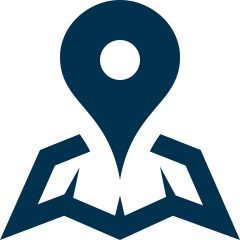
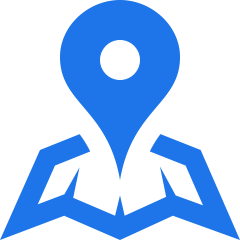
maps request added

diff --git a/src/pages/PlantSelect.tsx b/src/pages/PlantSelect.tsx
@@ -9,30 +9,27 @@ import colors from '../../styles/colors';
 import fonts from '../../styles/fonts';
 import { EnviromentButton } from '../components/EnviromentButton';
 import api from '../services/api';
+import mapsApi from '../services/mapsApi';
 import { PlantCardPrimary } from '../components/PlantCardPrimary';
 
-interface EnviromentProps {
+interface TypeProps {
     key: string;
     title: string;
 }
 
-interface PlantProps {
-    id: string;
+interface PlaceProps {
+    place_id: string;
     name: string;
     about: string;
-    water_tips: string;
-    photo: string;
-    environments: [string];
-    frequency: {
-        times: number;
-        repeat_every: string;
-    }
+    icon: string;
+    photo_reference: string;
+    
 }
 
 export function PlantSelect(){
-    const [enviroments, setEnviroments] = useState<EnviromentProps[]>([]);
-    const [plants, setPlants] = useState<PlantProps[]>([]);
-    const [filteredPlants, setFilteredPlants] = useState<PlantProps[]>([]);
+    const [enviroments, setEnviroments] = useState<TypeProps[]>([]);
+    const [plants, setPlants] = useState<PlaceProps[]>([]);
+    const [filteredPlants, setFilteredPlants] = useState<PlaceProps[]>([]);
     const [environmentSelected, setEnvironmentSelected] = useState('all');
     const [loading, setLoading] = useState(true);
 
@@ -41,33 +38,33 @@ export function PlantSelect(){
     const [loadedAll, setLoadedAll] = useState(false);
 
     function handleEnvironmentSelected(environment: string){
-        setEnvironmentSelected(environment);
+        // setEnvironmentSelected(environment);
 
-        if(environment == 'all')
-            return setFilteredPlants(plants);
+        // if(environment == 'all')
+        //     return setFilteredPlants(plants);
         
-        const filtered = plants.filter(plant => 
-            plant.environments.includes(environment)
-        );
+        // const filtered = plants.filter(plant => 
+        //     plant.environments.includes(environment)
+        // );
 
-        setFilteredPlants(filtered);
+        // setFilteredPlants(filtered);
     }
 
-    async function fetchPlants(){
-        const { data } = await api
-        .get(`plants?_sort=name&_order=asc&_page=${page}&_limit=8`);        
+    async function fetchPlants() {
+        // const { data } = await api.get(`plants?_sort=name&_order=asc&_page=${page}&_limit=8`);
+        const { data } = await mapsApi.get(``);
+        console.log("--------------------")
+        console.log(data.results)
 
-        if(!data)
+        if(!data.results)
             return setLoading(true);
-
         if(page > 1){
-            setPlants(oldValue => [...oldValue, ...data])
-            setFilteredPlants(oldValue => [...oldValue, ...data])
-        }else {
-            setPlants(data);
-            setFilteredPlants(data);
+            // setPlants(oldValue => [...oldValue, ...data.results])
+            // setFilteredPlants(oldValue => [...oldValue, ... data.results])
+        }else{
+            setPlants(data.results);
+            setFilteredPlants(data.results);
         }
-        
         setLoading(false);
         setLoadingMore(false);
     }
@@ -100,27 +97,8 @@ export function PlantSelect(){
     }, [])
 
     useEffect(() => {
-        async function fetchPlants() {
-            const { data } = await api.get(`plants?_sort=name&_order=asc&_page=${page}&_limit=8`);
-            
-            if(!data)
-                return setLoading(true);
-
-            if(page > 1){
-                setPlants(oldValue => [...oldValue, ...data])
-                setFilteredPlants(oldValue => [...oldValue, ... data])
-            }else{
-                setPlants(data);
-                setFilteredPlants(data);
-            }
-            setLoading(false);
-            setLoadingMore(false);
-        }
-        
         fetchPlants();
-
     }, [])
-
 
     if(loading){
         return <Load />
@@ -159,7 +137,7 @@ export function PlantSelect(){
             <View style={styles.plants}>
             <FlatList 
                 data={filteredPlants}
-                keyExtractor={(item) => String(item.id)}
+                keyExtractor={(item) => String(item.place_id)}
                 renderItem={({ item }) => (
                     <PlantCardPrimary 
                         data={item} 

diff --git a/src/components/PlantCardPrimary.tsx b/src/components/PlantCardPrimary.tsx
@@ -7,18 +7,22 @@ import { SvgFromUri } from 'react-native-svg';
 import colors from '../../styles/colors';
 import fonts from '../../styles/fonts';
 
-interface PlantProps extends RectButtonProps {
+interface PlaceProps extends RectButtonProps {
     data: {
         name: string;
-        photo: string;
+        icon: string;
+        place_id: string;
+        photo_reference: string;
+        
     }
 } 
 
-export const PlantCardPrimary = ({ data, ...rest} : PlantProps) => {
+export const PlantCardPrimary = ({ data, ...rest} : PlaceProps) => {
     return(
         <RectButton style={styles.container} {...rest}>
             
-            <SvgFromUri uri={ data.photo } width={70} height={70} />
+            <Image style={styles.image} source={{ uri: data.icon }} />
+    
             <Text style={styles.text}>
                 {data.name}
             </Text>
@@ -42,5 +46,10 @@ const styles = StyleSheet.create({
         fontFamily: fonts.heading,
         marginVertical: 5,
         marginLeft: 10
+    },
+    image: {
+        width: 20,
+        height: 20,
+        marginTop: 5
     }
 })

diff --git a/src/services/mapsApi.ts b/src/services/mapsApi.ts
@@ -1,0 +1,7 @@
+import axios from 'axios';
+
+const mapsApi = axios.create({
+    baseURL: 'https://maps.googleapis.com/maps/api/place/nearbysearch/json?' + 'location=' + -33.8670522 + ',' + 151.195736 + '&radius=1000&type=restaurant&keyword=restaurant&key=AIzaSyAFpAsoBD9Q75ttqJPjmopTCzM0dX3ZsTQ',
+});
+
+export default mapsApi;

diff --git a/src/components/EnviromentButton.tsx b/src/components/EnviromentButton.tsx
@@ -36,7 +36,7 @@ export function EnviromentButton({
 const styles = StyleSheet.create({
     container: {
         backgroundColor: colors.shape,
-        width: 76,
+        width: 100,
         height: 40,
         justifyContent: 'center',
         alignItems: 'center',

diff --git a/styles/colors.ts b/styles/colors.ts
@@ -1,7 +1,7 @@
 export default {
-  green: '#26547C',
+  green: '#1e75e9',
   green_dark: 'black',
-  green_light: '#26547C80',
+  green_light: '#83b8e2',
 
   heading: 'black',
   body_dark: '#738078',
